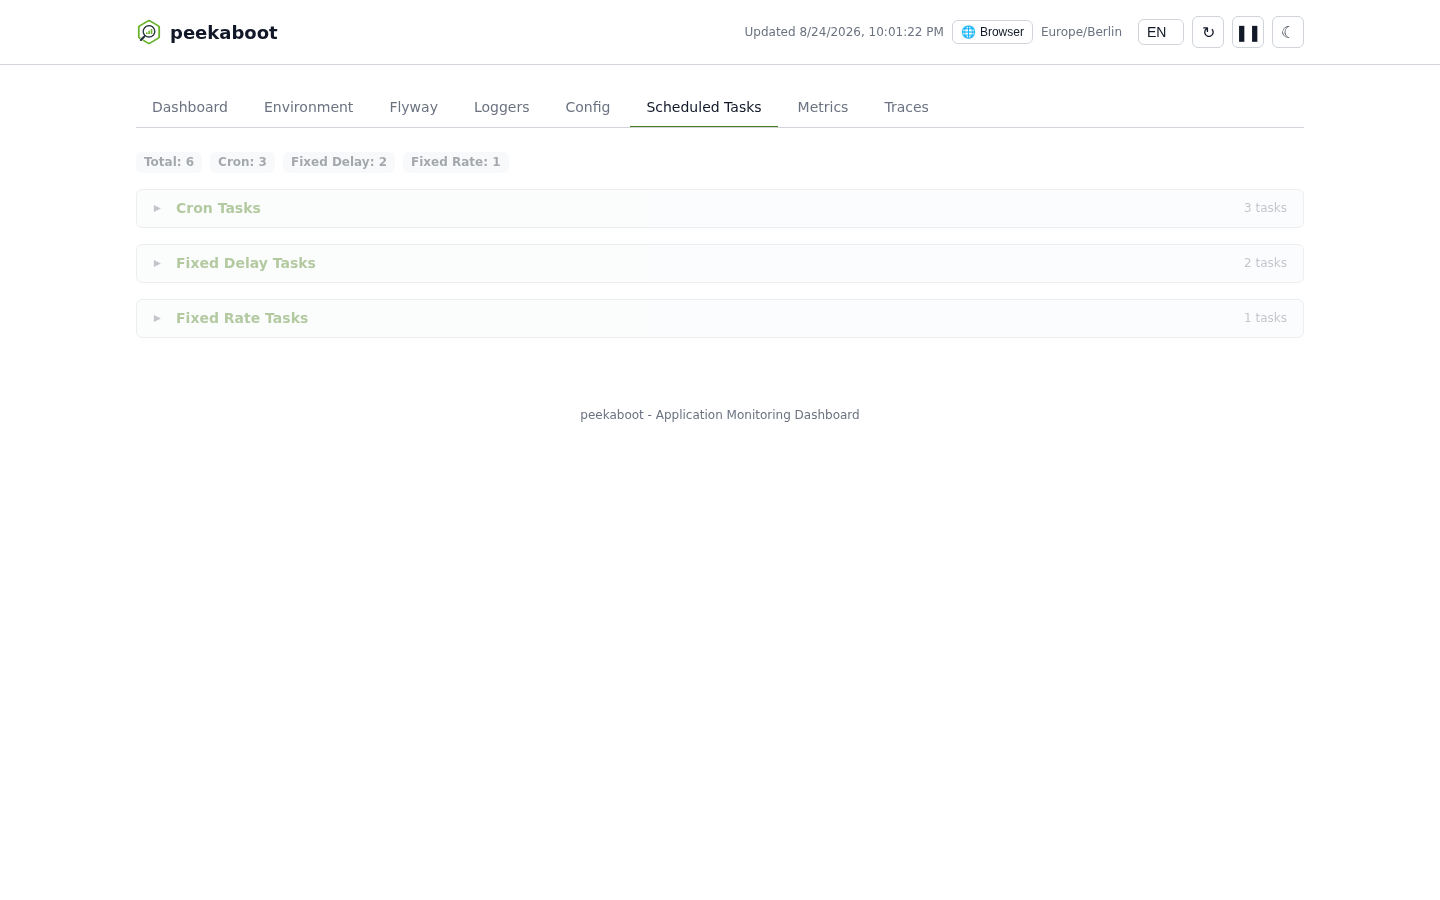
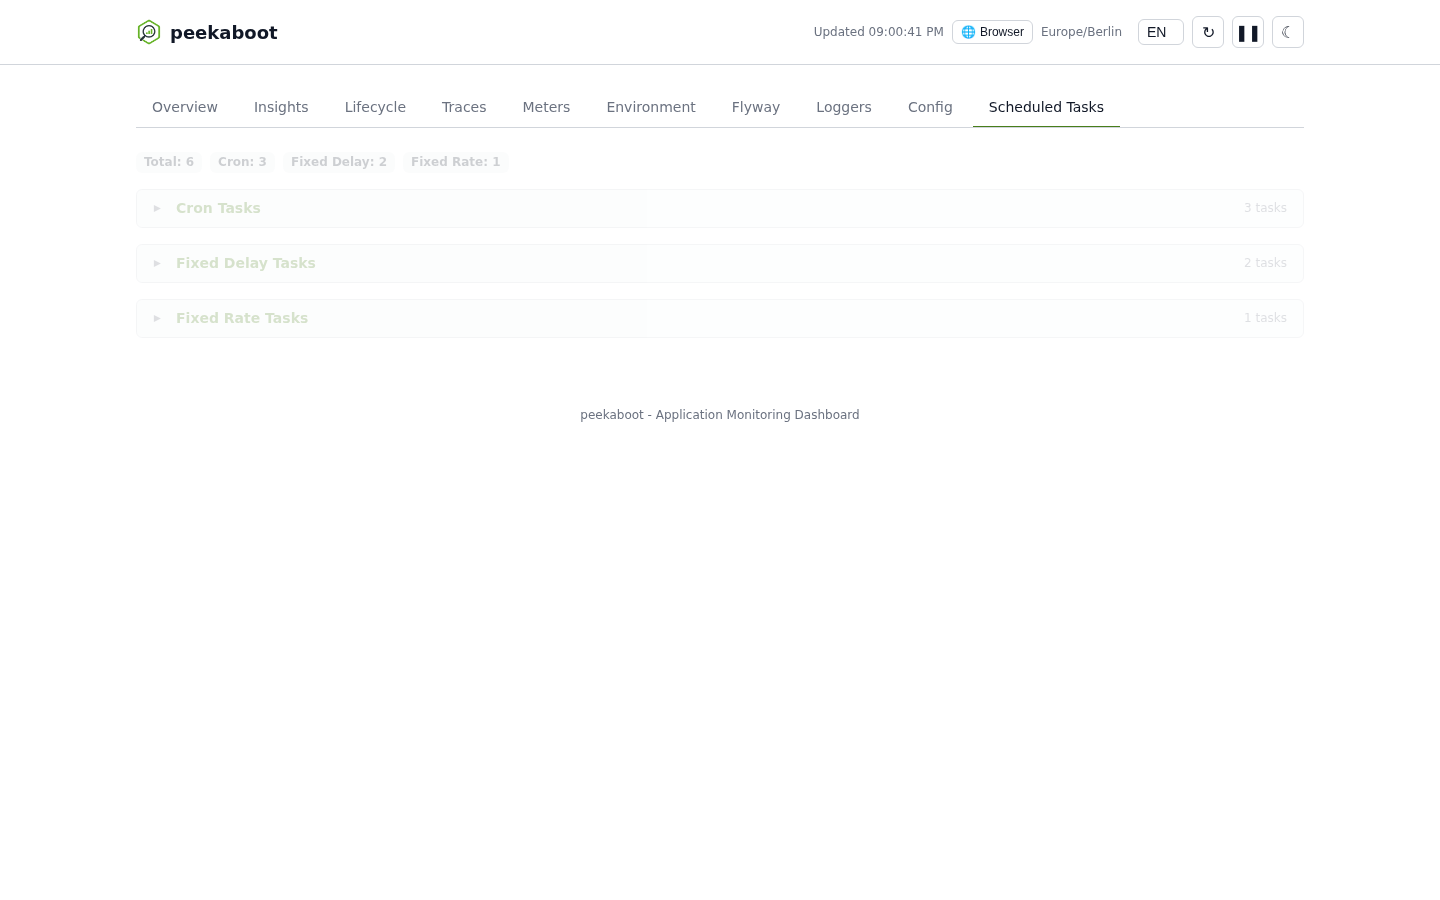
docs(screenshots): regenerate for the Overview/Meters rename, add Insights and Lifecycle

diff --git a/docs/dashboard.md b/docs/dashboard.md
@@ -58,7 +58,7 @@ Closing the overlay removes the trace from the hash, so a reload does not reopen
 ## Overview
 
 <figure class="image">
-  <img src="{{ '/assets/img/screenshots/dashboard-dashboard-light.png' | relative_url }}"
+  <img src="{{ '/assets/img/screenshots/dashboard-overview-light.png' | relative_url }}"
        alt="The Overview tab, showing Build, Git, Spring, Java, System, JVM Defaults and Datasource cards, plus memory meters and a health banner"
        loading="lazy">
 </figure>
@@ -83,6 +83,12 @@ outright rather than left as an empty box, and the rest of the tab is unaffected
 
 ## Insights
 
+<figure class="image">
+  <img src="{{ '/assets/img/screenshots/dashboard-insights-light.png' | relative_url }}"
+       alt="The Insights tab, live line charts of CPU usage and system load with an aggregation level switch and toggles for percentiles and restart markers"
+       loading="lazy">
+</figure>
+
 **Answers:** how have CPU, memory, HTTP, the connection pool and the rest behaved over the
 last minutes, hours or days?
 
@@ -97,6 +103,12 @@ schema and merge rules, what the aggregation levels cost in memory, and what the
 percentiles at those levels can and can't honestly tell you.
 
 ## Lifecycle
+
+<figure class="image">
+  <img src="{{ '/assets/img/screenshots/dashboard-lifecycle-light.png' | relative_url }}"
+       alt="The Lifecycle tab, a table of application runs newest first with start, duration, stop, downtime and build columns, showing Running, Unclean exit and Deployment badges"
+       loading="lazy">
+</figure>
 
 **Answers:** when did this application run, for how long, and what was deployed each time?
 
@@ -143,7 +155,7 @@ root action types actually mean.
 ## Meters
 
 <figure class="image">
-  <img src="{{ '/assets/img/screenshots/dashboard-metrics-light.png' | relative_url }}"
+  <img src="{{ '/assets/img/screenshots/dashboard-meters-light.png' | relative_url }}"
        alt="The Meters tab, a filterable list of Micrometer meters such as application.ready.time, db.client.operation.duration and executor.pool.size, each with its type, unit and measurement count"
        loading="lazy">
 </figure>

diff --git a/docs/insights.md b/docs/insights.md
@@ -10,6 +10,12 @@ Sampling, aggregation and storage all happen in your own JVM, in fixed-size ring
 stand up first. It's on whenever Peekaboot is (`peekaboot.insights.enabled: true`) and
 there's a Micrometer `MeterRegistry` bean to read.
 
+<figure class="image">
+  <img src="{{ '/assets/img/screenshots/dashboard-insights-light.png' | relative_url }}"
+       alt="The Insights tab, live line charts of CPU usage and system load with an aggregation level switch and toggles for percentiles and restart markers"
+       loading="lazy">
+</figure>
+
 <div class="pk-callout" markdown="1">
 The rings live in memory, but on a [local run]({{ '/docs/configuration/' | relative_url }}#local-run)
 they outlive the process: Peekaboot writes

diff --git a/README.md b/README.md
@@ -131,6 +131,12 @@ starts real PostgreSQL via `spring-boot-docker-compose` and runs Flyway against 
 dashboard tab (Flyway history, queries, traces) has genuine content instead of an empty
 state.
 
+The tool's file names are canonical - `dashboard-<tab id>-<theme>.png` for the dashboard
+tabs, plus the revealed, trace-detail and toolbar shots (the product repo's
+`peekaboot-testing-app/README.md` lists them all). This repo uses those names verbatim in
+`assets/img/screenshots/` and in every `<img>` reference; when a tab id changes in the
+product, the files and references here are renamed to follow.
+
 ## Measured contrast
 
 Body text and link text, measured in a real browser (Chromium via Playwright) against their

diff --git a/docs/quick-start.md b/docs/quick-start.md
@@ -60,7 +60,7 @@ context path and all, on a `Peekaboot Dashboard:` line &mdash; see
 [Configuration]({{ '/docs/configuration/' | relative_url }}#the-urls-in-the-summary).
 
 <figure class="image">
-  <img src="{{ '/assets/img/screenshots/dashboard-dashboard-light.png' | relative_url }}"
+  <img src="{{ '/assets/img/screenshots/dashboard-overview-light.png' | relative_url }}"
        alt="The Peekaboot dashboard's Overview tab, showing Build, Git, Spring, Java, System, JVM Defaults and Datasource cards for a running application"
        loading="lazy">
 </figure>
